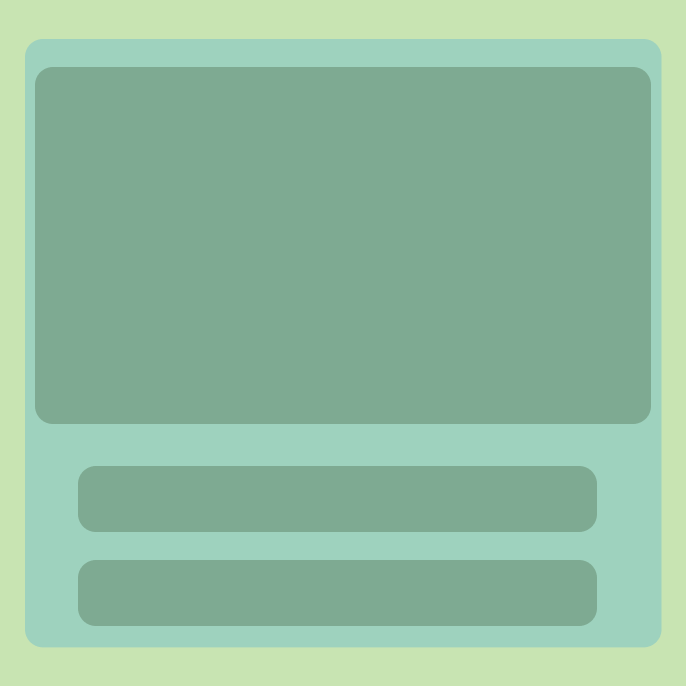
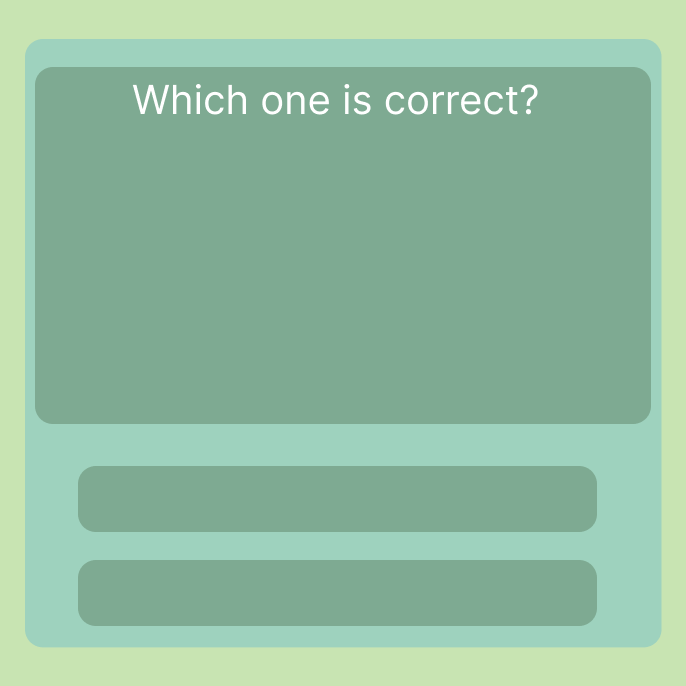
word centering and games key display

Changed region(s): [[0.1837, 0.1224, 0.7959, 0.1837]]

diff --git a/app/components/learning_session.py b/app/components/learning_session.py
@@ -71,15 +71,32 @@ class LearningSession(tk.Toplevel):
         setattr(self, f"last_chosen_{chosen_entry[0]}", chosen_entry[0])
 
         return chosen_entry[1], chosen_entry[0]
+        # debug -------------------------
+    #     hangman_dict = self.hangman_dict
+    #
+    #     if len(hangman_dict) > 0:
+    #         return self.tf_dict, "tf"
+    #     else:
+    #         return None, None
+    #
+    # def get_random_key_value(self):
+    #     if not self.chosen_dict:
+    #         return None, None
+    #
+    #     random_key = random.choice(list(self.chosen_dict.keys()))
+    #     random_value = self.chosen_dict[random_key]
+    #     return random_key, random_value
 
     def get_random_key_value(self):
         if not self.chosen_dict:
             return None, None
-
         random_key = random.choice(list(self.chosen_dict.keys()))
         random_value = self.chosen_dict[random_key]
         return random_key, random_value
 
+
+# todo elementy UI klas tk.Frame
+# todo do parametrów dodać jescze jeden, który jest arrayem zawierającym niepoprawne odpowiedzi
 
 class Flashcard(tk.Frame):
     def __init__(self, parent, key, value):
@@ -136,8 +153,33 @@ class MatchExpression(tk.Frame):
 
         self.background_image = PhotoImage(file="./components/graphical_components/games/match_expression/"
                                            "match_expression_bg.png")
+        self.button_bg = PhotoImage(file="./components/graphical_components/games/match_expression/button_bg.png")
+        self.label_bg = PhotoImage(file="./components/graphical_components/games/pick_correct/label_bg.png")
+
         self.background = tk.Label(self, image=self.background_image)
         self.background.place(relwidth=1, relheight=1)
+
+        self.canvas = tk.Canvas(self, width=616, height=357, bg="#9ed2be", highlightthickness=0)
+        self.canvas_bg = self.canvas.create_image(0, 0, anchor=tk.NW, image=self.label_bg)
+        self.canvas.place(x=33, y=67)
+
+        self.word_to_display = tk.Label(
+            self.canvas,
+            text=key,
+            font=('Inter', 60, 'bold'),
+            background="#7eaa92",
+            fg="#FFD9B7",
+            wraplength=600
+        )
+
+        self.canvas.create_window(308, 178, window=self.word_to_display, anchor="center")
+
+        self.answer_a = tk.Button(self, image=self.button_bg, bd=0, bg="#9ed2be")
+        self.answer_a.place(x=119, y=443)
+        self.answer_b = tk.Button(self, image=self.button_bg, bd=0, bg="#9ed2be")
+        self.answer_b.place(x=119, y=513)
+        self.answer_c = tk.Button(self, image=self.button_bg, bd=0, bg="#9ed2be")
+        self.answer_c.place(x=119, y=588)
         self.pack()
 
 
@@ -152,8 +194,34 @@ class MatchTranslation(tk.Frame):
         self.background_image = PhotoImage(file=
                                            "./components/graphical_components/games/match_translation/"
                                            "match_translation_bg.png")
+        self.button_bg = PhotoImage(file="./components/graphical_components/games/match_translation/button_bg.png")
+        self.label_bg = PhotoImage(file="./components/graphical_components/games/pick_correct/label_bg.png")
         self.background = tk.Label(self, image=self.background_image)
         self.background.place(relwidth=1, relheight=1)
+
+        self.canvas = tk.Canvas(self, width=616, height=357, bg="#9ed2be", highlightthickness=0)
+        self.canvas_bg = self.canvas.create_image(0, 0, anchor=tk.NW, image=self.label_bg)
+        self.canvas.place(x=33, y=67)
+
+        self.word_to_display = tk.Label(
+            self.canvas,
+            text=key,
+            font=('Inter', 60, 'bold'),
+            background="#7eaa92",
+            fg="#FFD9B7",
+            wraplength=600
+        )
+
+        self.canvas.create_window(308, 178, window=self.word_to_display, anchor="center")
+
+        self.answer_a = tk.Button(self, image=self.button_bg, bd=0, bg="#9ed2be")
+        self.answer_a.place(x=41, y=455)
+        self.answer_b = tk.Button(self, image=self.button_bg, bd=0, bg="#9ed2be")
+        self.answer_b.place(x=365, y=455)
+        self.answer_c = tk.Button(self, image=self.button_bg, bd=0, bg="#9ed2be")
+        self.answer_c.place(x=41, y=563)
+        self.answer_d = tk.Button(self, image=self.button_bg, bd=0, bg="#9ed2be")
+        self.answer_d.place(x=365, y=563)
         self.pack()
 
 
@@ -166,8 +234,32 @@ class TrueFalse(tk.Frame):
 
         self.background_image = PhotoImage(file=
                                            "./components/graphical_components/games/true_false/true_false_bg.png")
+        self.no_button_bg = PhotoImage(file="./components/graphical_components/flashcard/no_button.png")
+        self.yes_button_bg = PhotoImage(file="./components/graphical_components/flashcard/yes_button.png")
+        self.label_bg = PhotoImage(file="./components/graphical_components/games/pick_correct/label_bg.png")
         self.background = tk.Label(self, image=self.background_image)
         self.background.place(relwidth=1, relheight=1)
+
+        self.canvas = tk.Canvas(self, width=616, height=357, bg="#9ed2be", highlightthickness=0)
+        self.canvas_bg = self.canvas.create_image(0, 0, anchor=tk.NW, image=self.label_bg)
+        self.canvas.place(x=33, y=67)
+
+        self.word_to_display = tk.Label(
+            self.canvas,
+            text=key,
+            font=('Inter', 60, 'bold'),
+            background="#7eaa92",
+            fg="#FFD9B7",
+            wraplength=600
+        )
+
+        self.canvas.create_window(308, 178, window=self.word_to_display, anchor="center")
+
+        self.false_button = tk.Button(self, image=self.no_button_bg, bd=0, bg="#9ed2be")
+        self.false_button.place(x=87, y=488)
+
+        self.true_button = tk.Button(self, image=self.yes_button_bg, bd=0, bg="#9ed2be")
+        self.true_button.place(x=454, y=488)
         self.pack()
 
 
@@ -180,8 +272,31 @@ class PickCorrect(tk.Frame):
 
         self.background_image = PhotoImage(file=
                                            "./components/graphical_components/games/pick_correct/pick_correct_bg.png")
+        self.button_bg = PhotoImage(file="./components/graphical_components/games/pick_correct/button.png")
+        self.label_bg = PhotoImage(file="./components/graphical_components/games/pick_correct/label_bg.png")
         self.background = tk.Label(self, image=self.background_image)
         self.background.place(relwidth=1, relheight=1)
+
+        self.canvas = tk.Canvas(self, width=616, height=357, bg="#9ed2be", highlightthickness=0)
+        self.canvas_bg = self.canvas.create_image(0, 0, anchor=tk.NW, image=self.label_bg)
+        self.canvas.place(x=33, y=67)
+
+        self.word_to_display = tk.Label(
+            self.canvas,
+            text=key,
+            font=('Inter', 60, 'bold'),
+            background="#7eaa92",
+            fg="#FFD9B7",
+            wraplength=600
+        )
+
+        self.canvas.create_window(308, 178, window=self.word_to_display, anchor="center")
+
+        self.first_option = tk.Button(self, image=self.button_bg, bd=0, bg="#9ed2be")
+        self.first_option.place(x=76, y=466)
+        self.second_option = tk.Button(self, image=self.button_bg, bd=0, bg="#9ed2be")
+        self.second_option.place(x=76, y=560)
+
         self.pack()
 
 
